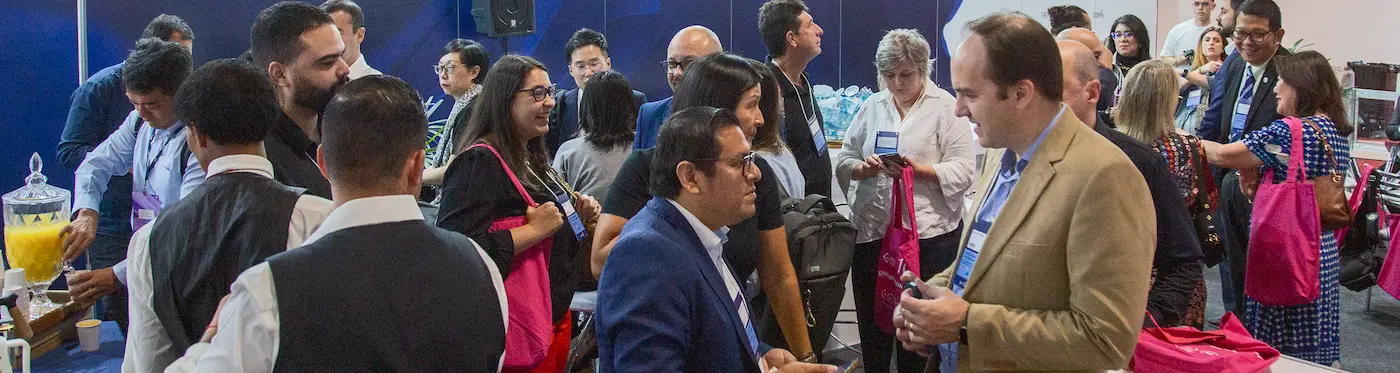
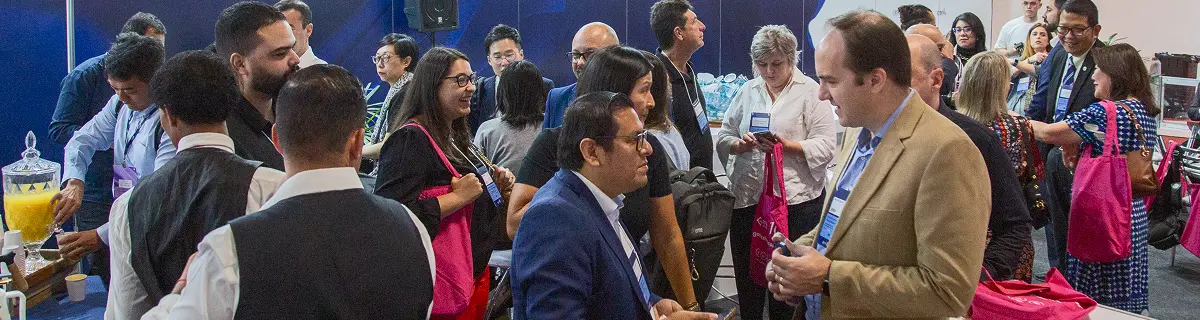
Update hero image

diff --git a/src/app/(frontend)/seja-um-expositor/page.tsx b/src/app/(frontend)/seja-um-expositor/page.tsx
@@ -18,9 +18,12 @@ import Testimonials from "@/components/testimonials";
 export default function Page() {
   return (
     <main>
-      <section className="bg-secondary relative z-0 md:pt-40">
-        <Image className="w-full object-cover md:absolute md:top-0 md:-z-10 md:h-1/2" src="/2025/images/seja-um-expositor/hero.webp" alt="Pessoas no evento da Gotex Show" width={1400} height={307} />
-        <div className="bg-default container md:bg-transparent">
+      <section className="bg-secondary relative z-0">
+        <div className="relative -z-10">
+          <Image className="h-60 w-full object-cover md:h-80" src="/2025/images/seja-um-expositor/hero.webp" alt="Pessoas no evento da Gotex Show" width={1200} height={320} />
+          <div className="absolute bottom-0 left-0 h-1/2 w-full bg-gradient-to-t from-black"></div>
+        </div>
+        <div className="bg-default container -mt-24 md:bg-transparent">
           <div className="bg-default md:border-default grid items-end rounded md:grid-cols-12 md:border md:shadow">
             <div className="space-y-4 pt-10 md:col-span-6 md:p-10 lg:col-span-7">
               <h1 className="text-default subtitle">
@@ -92,18 +95,18 @@ export default function Page() {
           </div>
           <div className="container max-w-7xl">
             <div className="flex flex-wrap justify-center gap-4">
-              <Image src="/2025/images/seja-um-expositor/flag-bangladesh.svg" alt="Bandeira Bangladesh" width={83} height={40} loading="lazy" />
-              <Image src="/2025/images/seja-um-expositor/flag-bolivia.svg" alt="Bandeira Bolivia" width={83} height={40} loading="lazy" />
-              <Image src="/2025/images/seja-um-expositor/flag-brazil.svg" alt="Bandeira Brasil" width={83} height={40} loading="lazy" />
-              <Image src="/2025/images/seja-um-expositor/flag-china.svg" alt="Bandeira China" width={83} height={40} loading="lazy" />
-              <Image src="/2025/images/seja-um-expositor/flag-egypt.svg" alt="Bandeira Egito" width={83} height={40} loading="lazy" />
-              <Image src="/2025/images/seja-um-expositor/flag-usa.svg" alt="Bandeira estadoos Unidos da America" width={83} height={40} loading="lazy" />
-              <Image src="/2025/images/seja-um-expositor/flag-italy.svg" alt="Bandeira Italia" width={83} height={40} loading="lazy" />
-              <Image src="/2025/images/seja-um-expositor/flag-india.svg" alt="Bandeira India" width={83} height={40} loading="lazy" />
-              <Image src="/2025/images/seja-um-expositor/flag-mexico.svg" alt="Bandeira Mexico" width={83} height={40} loading="lazy" />
-              <Image src="/2025/images/seja-um-expositor/flag-coreia.svg" alt="Bandeira Coreia" width={83} height={40} loading="lazy" />
-              <Image src="/2025/images/seja-um-expositor/flag-peru.svg" alt="Bandeira Peru" width={83} height={40} loading="lazy" />
-              <Image src="/2025/images/seja-um-expositor/flag-turkey.svg" alt="Bandeira Turquia" width={83} height={40} loading="lazy" />
+              <Image className="h-auto w-14 md:w-20" src="/2025/images/seja-um-expositor/flag-bangladesh.svg" alt="Bandeira Bangladesh" width={83} height={40} loading="lazy" />
+              <Image className="h-auto w-14 md:w-20" src="/2025/images/seja-um-expositor/flag-bolivia.svg" alt="Bandeira Bolivia" width={83} height={40} loading="lazy" />
+              <Image className="h-auto w-14 md:w-20" src="/2025/images/seja-um-expositor/flag-brazil.svg" alt="Bandeira Brasil" width={83} height={40} loading="lazy" />
+              <Image className="h-auto w-14 md:w-20" src="/2025/images/seja-um-expositor/flag-china.svg" alt="Bandeira China" width={83} height={40} loading="lazy" />
+              <Image className="h-auto w-14 md:w-20" src="/2025/images/seja-um-expositor/flag-egypt.svg" alt="Bandeira Egito" width={83} height={40} loading="lazy" />
+              <Image className="h-auto w-14 md:w-20" src="/2025/images/seja-um-expositor/flag-usa.svg" alt="Bandeira estadoos Unidos da America" width={83} height={40} loading="lazy" />
+              <Image className="h-auto w-14 md:w-20" src="/2025/images/seja-um-expositor/flag-italy.svg" alt="Bandeira Italia" width={83} height={40} loading="lazy" />
+              <Image className="h-auto w-14 md:w-20" src="/2025/images/seja-um-expositor/flag-india.svg" alt="Bandeira India" width={83} height={40} loading="lazy" />
+              <Image className="h-auto w-14 md:w-20" src="/2025/images/seja-um-expositor/flag-mexico.svg" alt="Bandeira Mexico" width={83} height={40} loading="lazy" />
+              <Image className="h-auto w-14 md:w-20" src="/2025/images/seja-um-expositor/flag-coreia.svg" alt="Bandeira Coreia" width={83} height={40} loading="lazy" />
+              <Image className="h-auto w-14 md:w-20" src="/2025/images/seja-um-expositor/flag-peru.svg" alt="Bandeira Peru" width={83} height={40} loading="lazy" />
+              <Image className="h-auto w-14 md:w-20" src="/2025/images/seja-um-expositor/flag-turkey.svg" alt="Bandeira Turquia" width={83} height={40} loading="lazy" />
             </div>
           </div>
           <div className="container space-y-6">
